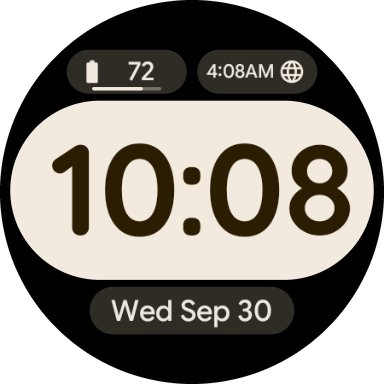
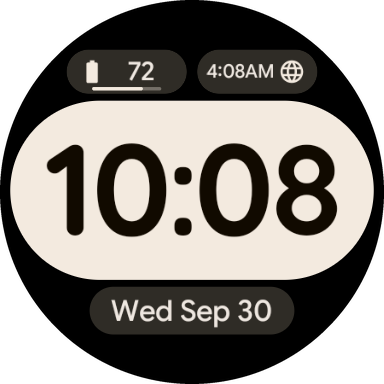
Refresh themes: 18 stronger color themes with near-black digits
Replace Sunset Apricot, Cyber Punk Amber, Lagoon, Silver and Fresh Green with
Neon Rose, Acid Yellow, Electric Cyan, Toxic Green, Mocha, Matcha and Seafoam.
Strengthen fills on Neon Plum, Electric Berry, Mint Cyan, Arctic Glacier,
Cobalt and Pine. Hour digits are now a tinted near-black of each hue
(contrast >= 7.0). Regenerate README screenshots and preview. Bump to 1.2.3
(versionCode 15).

Changed region(s): [[0.125, 0.375, 0.9375, 0.625]]

diff --git a/README.md b/README.md
@@ -5,43 +5,45 @@ A minimal digital watch face for Wear OS, built entirely with the declarative
 
 <p align="center">
   <img src="docs/screenshots/neon-plum.png" alt="Neon Plum theme" width="150">
-  <img src="docs/screenshots/mint-cyan.png" alt="Mint Cyan theme" width="150">
-  <img src="docs/screenshots/arctic-glacier.png" alt="Arctic Glacier theme with notification and battery complications" width="150">
+  <img src="docs/screenshots/electric-cyan.png" alt="Electric Cyan theme" width="150">
+  <img src="docs/screenshots/acid-yellow.png" alt="Acid Yellow theme" width="150">
+  <img src="docs/screenshots/toxic-green.png" alt="Toxic Green theme" width="150">
   <img src="docs/screenshots/cloud-dancer.png" alt="Cloud Dancer theme" width="150">
-  <img src="docs/screenshots/clay.png" alt="Clay theme" width="150">
 </p>
 
 - Big, bold time inside a full-color pill, with a blinking colon
 - Date pill and two complications (short text, ranged value, goal progress, icons)
   with progress bars
-- 16 color themes, selectable from the watch face editor
+- 18 color themes, selectable from the watch face editor
 - Low-power Always-On mode with outlined pills
 
 **Requires:** Wear OS 6 or later (API 36, Watch Face Format v4).
 
 ## Color themes
 
-The background is always black. Each theme has an hour pill color, darker digits in
+The background is always black. Each theme has an hour pill color, near-black digits tinted in
 the same hue, and a deep tone for the date and complication pills.
 
 | # | Theme | Hour pill / accent | Hour digits | Date & complication pills | Text |
 |---|-------|--------------------|-------------|---------------------------|------|
-| 0 | Neon Plum | `#FFB1C6` | `#331720` | `#51172D` | `#FFE1E7` |
-| 1 | Electric Berry | `#BF86FF` | `#0C0319` | `#391E58` | `#F1E3F9` |
-| 2 | Sunset Apricot | `#FFB59C` | `#34180E` | `#511A05` | `#FFE2D9` |
-| 3 | Cyber Punk Amber | `#FFB952` | `#2E1C02` | `#3F2700` | `#FEE4C6` |
-| 4 | Mint Cyan | `#00DFC1` | `#00251E` | `#00332B` | `#D6EDE6` |
-| 5 | Emerald Sky | `#75DAA8` | `#072517` | `#133223` | `#D9EDDF` |
-| 6 | Pastel Lavender & Butter | `#E1B6FF` | `#281A31` | `#39224A` | `#F3E3F8` |
-| 7 | Arctic Glacier | `#94CCFF` | `#0B2133` | `#152E42` | `#DDE9F9` |
-| 8 | Cloud Dancer | `#F3EADF` | `#2B1D01` | `#2F2C26` | `#EEE7E0` |
-| 9 | Lagoon | `#60D7E5` | `#002428` | `#0B3135` | `#D6ECF0` |
-| 10 | Clay | `#E3A27A` | `#2B1304` | `#412513` | `#FEE3D5` |
-| 11 | Sage | `#BACE98` | `#192309` | `#272F1A` | `#E7EADA` |
-| 12 | Lemon Zing | `#E2C633` | `#261F02` | `#342C01` | `#F2E8C6` |
-| 13 | Cobalt | `#8EA0FF` | `#050920` | `#202954` | `#E6E7FC` |
-| 14 | Fresh Green | `#9ADF62` | `#16230B` | `#1C3209` | `#E1ECD2` |
-| 15 | Pine | `#68B071` | `#000A02` | `#16321A` | `#DCEDD8` |
+| 0 | Neon Plum | `#FFA2BC` | `#20000B` | `#3A0219` | `#FFE1E7` |
+| 1 | Electric Berry | `#BA7CFF` | `#140129` | `#270647` | `#F1E3F9` |
+| 2 | Neon Rose | `#FF7198` | `#200009` | `#380014` | `#FFE1E5` |
+| 3 | Acid Yellow | `#F8E600` | `#0D0B00` | `#1D1A00` | `#EFE9C8` |
+| 4 | Mint Cyan | `#00D8BA` | `#000E0A` | `#001E18` | `#D6EDE5` |
+| 5 | Scarlet | `#FF8073` | `#200101` | `#370303` | `#FFE2DE` |
+| 6 | Fuchsia | `#FF6CEA` | `#1D001A` | `#360631` | `#FCE1F1` |
+| 7 | Arctic Glacier | `#7CC3FF` | `#000C18` | `#001B2F` | `#DDEAF9` |
+| 8 | Cloud Dancer | `#F3EADF` | `#110A00` | `#2F2C26` | `#EEE7E0` |
+| 9 | Electric Cyan | `#00D3F3` | `#000D11` | `#001D23` | `#DAEBF0` |
+| 10 | Tangerine | `#FF834E` | `#1B0400` | `#370E00` | `#FFE2D8` |
+| 11 | Mocha | `#CA9570` | `#170700` | `#2C1606` | `#FDE3D4` |
+| 12 | Lemon Zing | `#E2C633` | `#0E0B00` | `#342C01` | `#F2E8C6` |
+| 13 | Cobalt | `#8498FF` | `#00062F` | `#011151` | `#E6E7FC` |
+| 14 | Toxic Green | `#63EE00` | `#020E00` | `#061C00` | `#DEEDD0` |
+| 15 | Pine | `#3FB868` | `#000E03` | `#001F0A` | `#DBEDDA` |
+| 16 | Matcha | `#B2C428` | `#0A0C00` | `#181C00` | `#E9EACB` |
+| 17 | Seafoam | `#58DAA2` | `#000E07` | `#001F12` | `#D8EDDF` |
 
 The palettes are generated from Material 3 (HCT) seeds.
 
@@ -50,7 +52,7 @@ The palettes are generated from Material 3 (HCT) seeds.
 Download the latest APK from [Releases](https://github.com/keeara/MinimalFace/releases/latest) and sideload it:
 
 ```bash
-adb install MinimalFace-1.2.2.apk
+adb install MinimalFace-1.2.3.apk
 ```
 
 ## Build from source
